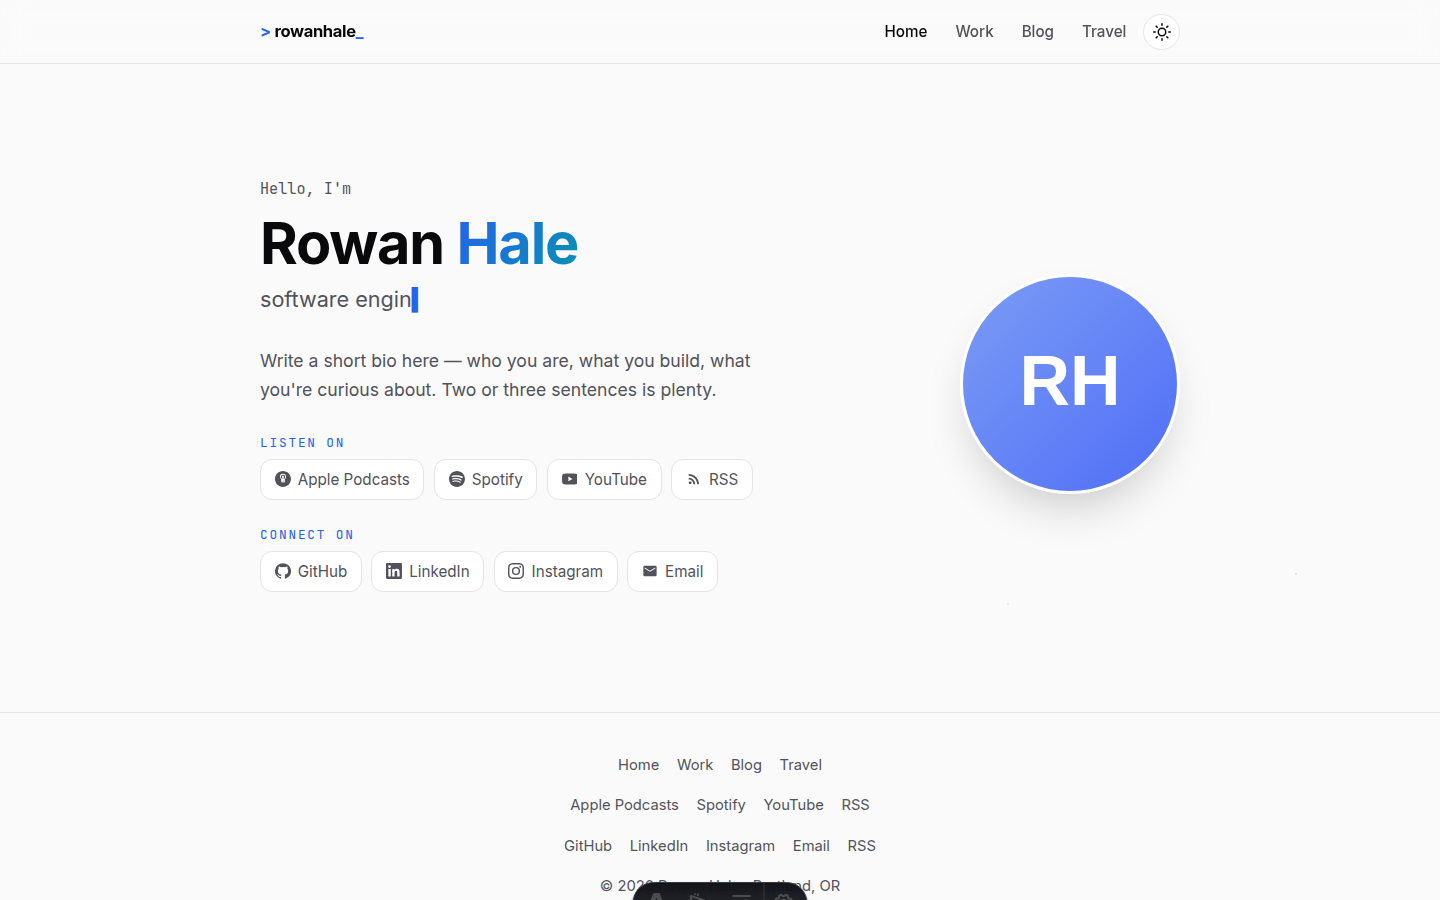
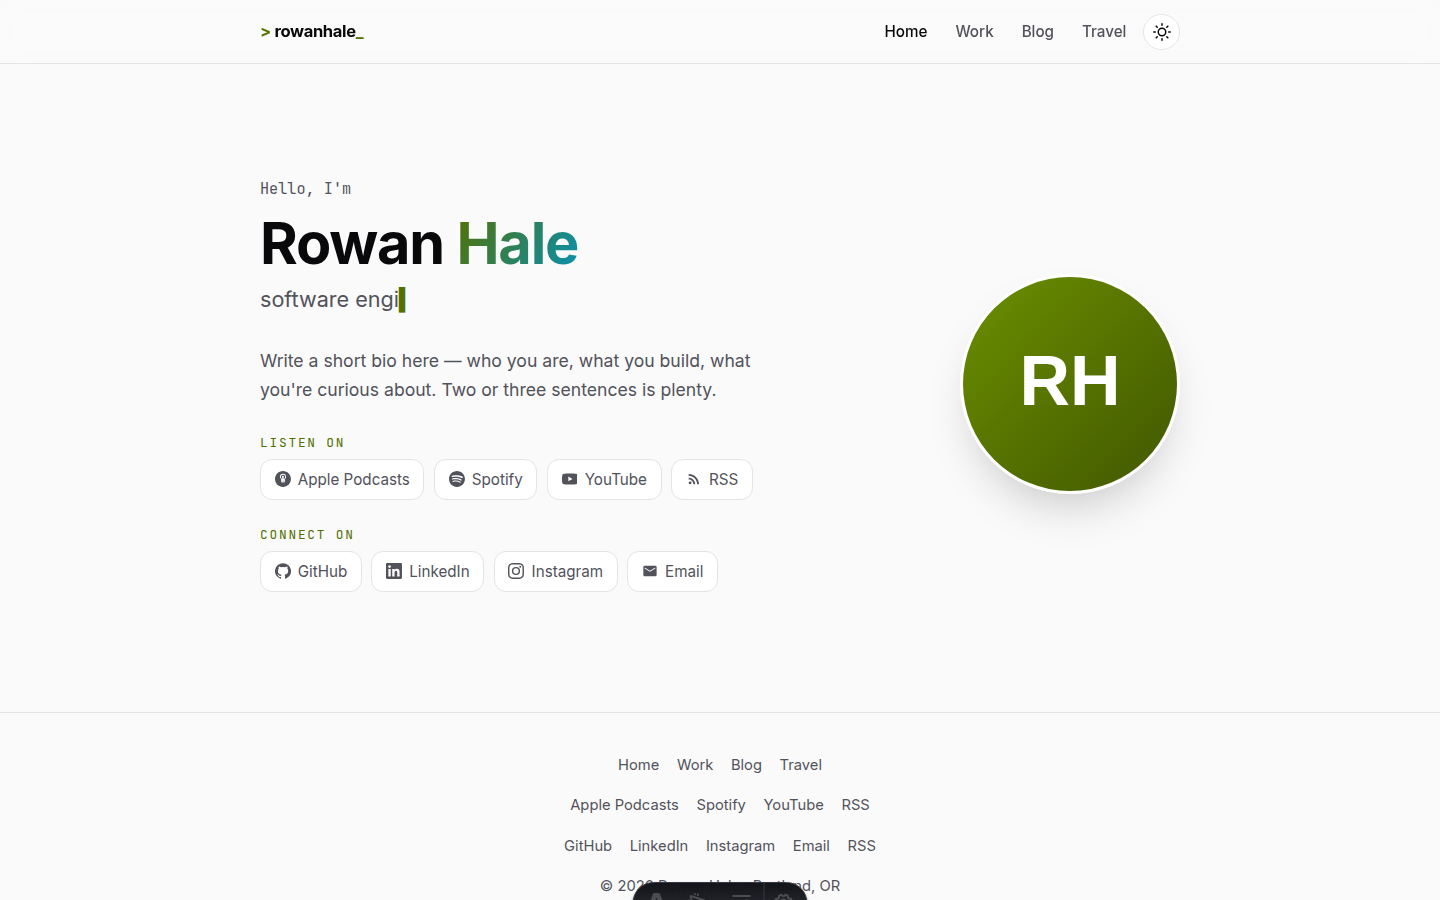
Rebrand to lime green accent (#c0ff00) and neutral dark theme
- Dark theme: --bg -> #1c1c1c (neutral near-black, was navy-tinted
  #0b0f1a). Recolored --surface/--surface-2/--border/--text/
  --text-strong/--muted to a matching neutral gray ramp instead of the
  old blue-tinted set, and set --accent to the literal brand green
  since it has ~14:1 contrast against the new background.
- Light theme: --accent set to #547000 and --accent-strong to
  #415700 — darkened versions of the same hue, not the raw brand hex.
  --accent is the sitewide default link color (`a { color: ... }`)
  plus eyebrows, badges, and tag/link hovers; #c0ff00 verbatim has
  ~1.2:1 contrast on the light background and would make that text
  unreadable. This mirrors how the theme already handled blue (a
  darker shade in light mode, a lighter one in dark mode).
- Recolored the hero starfield's hardcoded blue dot fallbacks to the
  new green, and retinted the placeholder avatar SVG's gradient.
- --accent-2 (the secondary/teal accent used for the "life" category
  and podcast-link hover) is unchanged — only "the accent color" was
  asked for.
- Updated screenshot.png for the new palette.

Verified in both themes across home/blog/post/work with real
screenshots: no low-contrast text anywhere.

Claude-Session: https://claude.ai/code/session_01KA4NjoDwTGmjsBWGXwuYhF

diff --git a/src/styles/global.css b/src/styles/global.css
@@ -13,10 +13,12 @@
   --text-strong: #09090b;
   --muted: #52525b;
   --border: #e4e4e7;
-  --accent: #2563eb;
-  --accent-strong: #1d4ed8;
+  /* Brand green (#c0ff00) darkened to the same hue for readable text on a
+     light background — see the dark theme below for the literal brand color. */
+  --accent: #547000;
+  --accent-strong: #415700;
   --accent-2: #0891b2;
-  --accent-glow: rgba(37, 99, 235, 0.18);
+  --accent-glow: rgba(192, 255, 0, 0.18);
   --on-accent: #ffffff;
   --shadow-sm: 0 1px 2px rgba(0, 0, 0, 0.06);
   --shadow-md: 0 8px 24px -8px rgba(0, 0, 0, 0.14);
@@ -30,18 +32,20 @@
 }
 
 html[data-theme='dark'] {
-  --bg: #0b0f1a;
-  --surface: #111827;
-  --surface-2: #1a2234;
-  --text: #d4d4d8;
-  --text-strong: #f4f4f5;
-  --muted: #9ca3af;
-  --border: #262e3f;
-  --accent: #60a5fa;
-  --accent-strong: #93c5fd;
+  --bg: #1c1c1c;
+  --surface: #262626;
+  --surface-2: #303030;
+  --text: #e5e5e5;
+  --text-strong: #fafafa;
+  --muted: #a3a3a3;
+  --border: #3d3d3d;
+  /* The literal brand green — huge contrast against the near-black
+     background (~14:1), so it stays exact here unlike the light theme. */
+  --accent: #c0ff00;
+  --accent-strong: #dfff80;
   --accent-2: #22d3ee;
-  --accent-glow: rgba(96, 165, 250, 0.22);
-  --on-accent: #0b0f1a;
+  --accent-glow: rgba(192, 255, 0, 0.22);
+  --on-accent: #1c1c1c;
   --shadow-sm: 0 1px 2px rgba(0, 0, 0, 0.4);
   --shadow-md: 0 8px 24px -8px rgba(0, 0, 0, 0.5);
   --shadow-lg: 0 24px 48px -16px rgba(0, 0, 0, 0.6);
@@ -443,13 +447,13 @@ th {
   position: absolute;
   inset: 0;
   background-image:
-    radial-gradient(2px 2px at 20% 30%, var(--star, rgba(37, 99, 235, 0.35)) 50%, transparent 51%),
+    radial-gradient(2px 2px at 20% 30%, var(--star, rgba(192, 255, 0, 0.35)) 50%, transparent 51%),
     radial-gradient(1.5px 1.5px at 40% 70%, var(--star, rgba(8, 145, 178, 0.3)) 50%, transparent 51%),
-    radial-gradient(1px 1px at 60% 20%, var(--star, rgba(37, 99, 235, 0.28)) 50%, transparent 51%),
+    radial-gradient(1px 1px at 60% 20%, var(--star, rgba(192, 255, 0, 0.28)) 50%, transparent 51%),
     radial-gradient(2px 2px at 80% 55%, var(--star, rgba(8, 145, 178, 0.32)) 50%, transparent 51%),
-    radial-gradient(1.5px 1.5px at 90% 85%, var(--star, rgba(37, 99, 235, 0.3)) 50%, transparent 51%),
+    radial-gradient(1.5px 1.5px at 90% 85%, var(--star, rgba(192, 255, 0, 0.3)) 50%, transparent 51%),
     radial-gradient(1px 1px at 15% 85%, var(--star, rgba(8, 145, 178, 0.3)) 50%, transparent 51%),
-    radial-gradient(1.5px 1.5px at 70% 90%, var(--star, rgba(37, 99, 235, 0.25)) 50%, transparent 51%),
+    radial-gradient(1.5px 1.5px at 70% 90%, var(--star, rgba(192, 255, 0, 0.25)) 50%, transparent 51%),
     radial-gradient(1px 1px at 30% 10%, var(--star, rgba(8, 145, 178, 0.25)) 50%, transparent 51%);
   opacity: 0.5;
   pointer-events: none;
